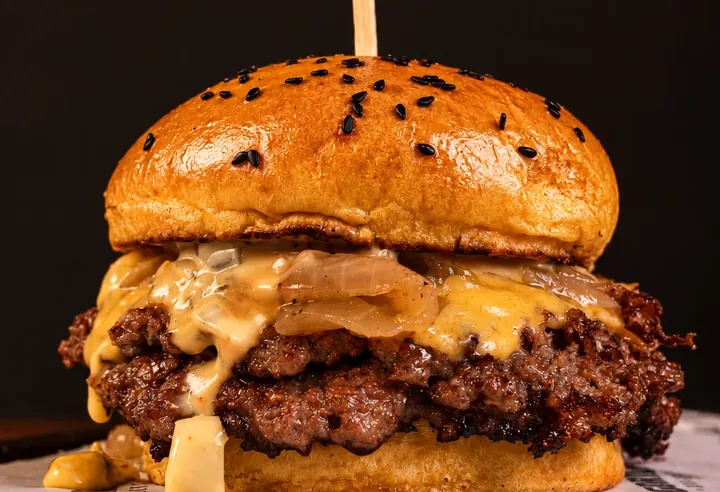
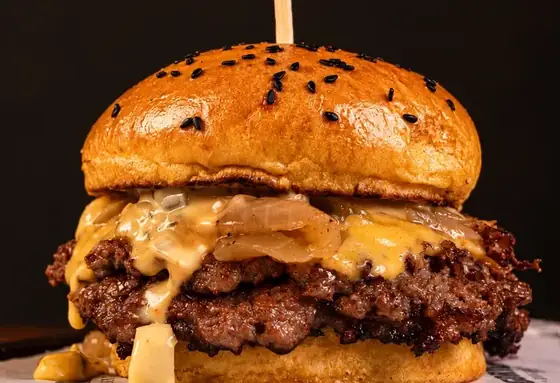
Sitio: vitrina con las fotos oficiales y Molotov
Claude-Session: https://claude.ai/code/session_0145Bw5c63rrWAMAmNbHaWSR

diff --git a/modulos/restaurante/restaurante-datos.js b/modulos/restaurante/restaurante-datos.js
@@ -1,2 +1,2 @@
 /* Datos del módulo de restaurante de Gorila Burgers (generado desde clientes/gorila-burgers/cliente.json). Solo la clave anon de Supabase; nunca service_role (§4.11). Ver modulos/restaurante/README.md. */
-window.RESTDATA = {"logo": "assets/logo.webp", "api": {"modo": "supabase", "url": "https://jukpaqtriemqvxormrgb.supabase.co", "anonKey": "eyJhbGciOiJIUzI1NiIsInR5cCI6IkpXVCJ9.eyJpc3MiOiJzdXBhYmFzZSIsInJlZiI6Imp1a3BhcXRyaWVtcXZ4b3JtcmdiIiwicm9sZSI6ImFub24iLCJpYXQiOjE3OTAzODY1ODQsImV4cCI6MjEwNTk2MjU4NH0.4PPIVK2HvvgwrGEtNVn7CozqDCldvlFWnK2rpgrOmHE", "schema": "gorila_burgers"}, "stock_bajo": 5, "productos": [{"clave": "texas", "nombre": "Gorila Texas + papas", "categoria": "vip", "precio_cent": 790, "lema": "La campeona que domina", "ingredientes": "2 carnes, 2 quesos cheddar, tocino, cebollas empanizadas, salsa BBQ y salsa Kong", "foto": null, "cuenta_burger": true, "controla_stock": true, "orden": 0}, {"clave": "superguesa", "nombre": "SuperGuesa + papas", "categoria": "vip", "precio_cent": 790, "lema": "Nivel bestia activado", "ingredientes": "Receta de la casa.", "foto": null, "cuenta_burger": true, "controla_stock": true, "orden": 1}, {"clave": "jam", "nombre": "Jam Smash", "categoria": "vip", "precio_cent": 499, "lema": "La que cambia el juego", "ingredientes": "2 carnes smash, 2 quesos cheddar, cebollas caramelizadas y salsa smash", "foto": null, "cuenta_burger": true, "controla_stock": true, "orden": 2}, {"clave": "hawayana", "nombre": "Hawayana + papas", "categoria": "especiales", "precio_cent": 590, "lema": "Dulce, atrevida y peligrosa", "ingredientes": "Receta de la casa.", "foto": null, "cuenta_burger": true, "controla_stock": true, "orden": 3}, {"clave": "tocino", "nombre": "Tocino BBQ + papas", "categoria": "especiales", "precio_cent": 590, "lema": "Puro fuego en cada mordida", "ingredientes": "Carne, queso cheddar, tocino, salsa BBQ, salsa Kong y vegetales", "foto": null, "cuenta_burger": true, "controla_stock": true, "orden": 4}, {"clave": "cheese", "nombre": "Cheese Burger + papas", "categoria": "peques", "precio_cent": 550, "lema": "El clásico que nunca falla", "ingredientes": "Carne, queso cheddar, salsa Kong y vegetales", "foto": null, "cuenta_burger": true, "controla_stock": true, "orden": 5}, {"clave": "mini", "nombre": "Mini Gorila + papas", "categoria": "peques", "precio_cent": 490, "lema": "Pequeña pero con carácter", "ingredientes": "Carne, salsa Kong y vegetales", "foto": null, "cuenta_burger": true, "controla_stock": true, "orden": 6}, {"clave": "cbfries", "nombre": "Cheese Bacon Fries", "categoria": "papas", "precio_cent": 450, "lema": null, "ingredientes": null, "foto": null, "cuenta_burger": false, "controla_stock": false, "orden": 7}, {"clave": "papas", "nombre": "Papas", "categoria": "papas", "precio_cent": 150, "lema": null, "ingredientes": null, "foto": null, "cuenta_burger": false, "controla_stock": false, "orden": 8}, {"clave": "lemonsun", "nombre": "Lemon Sun", "categoria": "bebidas", "precio_cent": 190, "lema": null, "ingredientes": null, "foto": null, "cuenta_burger": false, "controla_stock": false, "orden": 9}, {"clave": "redlemon", "nombre": "Red Lemon", "categoria": "bebidas", "precio_cent": 190, "lema": null, "ingredientes": null, "foto": null, "cuenta_burger": false, "controla_stock": false, "orden": 10}, {"clave": "cerveza", "nombre": "Cerveza de Gorila", "categoria": "bebidas", "precio_cent": 450, "lema": null, "ingredientes": null, "foto": null, "cuenta_burger": false, "controla_stock": false, "orden": 11}, {"clave": "x-carne", "nombre": "Carne", "categoria": "extras", "precio_cent": 200, "lema": null, "ingredientes": null, "foto": null, "cuenta_burger": false, "controla_stock": false, "orden": 12}, {"clave": "x-queso", "nombre": "Queso", "categoria": "extras", "precio_cent": 100, "lema": null, "ingredientes": null, "foto": null, "cuenta_burger": false, "controla_stock": false, "orden": 13}, {"clave": "x-tocino", "nombre": "Tocino", "categoria": "extras", "precio_cent": 150, "lema": null, "ingredientes": null, "foto": null, "cuenta_burger": false, "controla_stock": false, "orden": 14}, {"clave": "x-crunch", "nombre": "Tocino crunch", "categoria": "extras", "precio_cent": 150, "lema": null, "ingredientes": null, "foto": null, "cuenta_burger": false, "controla_stock": false, "orden": 15}, {"clave": "x-pina", "nombre": "Piña", "categoria": "extras", "precio_cent": 150, "lema": null, "ingredientes": null, "foto": null, "cuenta_burger": false, "controla_stock": false, "orden": 16}, {"clave": "x-kong", "nombre": "Salsa Kong", "categoria": "extras", "precio_cent": 100, "lema": null, "ingredientes": null, "foto": null, "cuenta_burger": false, "controla_stock": false, "orden": 17}, {"clave": "x-caram", "nombre": "Cebollas caramelizadas", "categoria": "extras", "precio_cent": 100, "lema": null, "ingredientes": null, "foto": null, "cuenta_burger": false, "controla_stock": false, "orden": 18}, {"clave": "x-empan", "nombre": "Cebollas empanizadas", "categoria": "extras", "precio_cent": 100, "lema": null, "ingredientes": null, "foto": null, "cuenta_burger": false, "controla_stock": false, "orden": 19}], "sectores": [{"nombre": "FICOA", "costo_cent": 0}, {"nombre": "Atocha", "costo_cent": 0}, {"nombre": "Miraflores", "costo_cent": 0}, {"nombre": "Centro", "costo_cent": 0}, {"nombre": "Huachi", "costo_cent": 0}, {"nombre": "Izamba", "costo_cent": 0}], "categorias": [{"id": "vip", "nombre": "VIP", "sub": "Hamburguesas", "ids": ["texas", "superguesa", "jam"]}, {"id": "especiales", "nombre": "Especiales", "sub": "Hamburguesas", "ids": ["hawayana", "tocino"]}, {"id": "peques", "nombre": "Peques", "sub": "Menú para", "ids": ["cheese", "mini"]}, {"id": "papas", "nombre": "Papas", "sub": "Para acompañar", "ids": ["cbfries", "papas"]}, {"id": "bebidas", "nombre": "Bebidas", "sub": "Para tomar", "ids": ["lemonsun", "redlemon", "cerveza"]}], "vitrina": [{"id": "texas", "nombre": "Gorila Texas", "titulo": "Texas", "precio_cent": 790, "intro": "La campeona que domina", "ingredientes": "2 carnes, 2 quesos cheddar, tocino, cebollas empanizadas, salsa BBQ y salsa Kong", "corte": "assets/corte-texas.webp", "alt": "Hamburguesa Gorila Texas de doble carne con queso cheddar y tocino, con la banderita de Gorila", "glow": "#a8620f"}, {"id": "jam", "nombre": "Jam Smash", "titulo": "Jam Smash", "precio_cent": 499, "intro": "La que cambia el juego", "ingredientes": "2 carnes smash, 2 quesos cheddar, cebollas caramelizadas y salsa smash", "corte": "assets/corte-jam.webp", "alt": "Hamburguesa Jam Smash con queso fundido y cebolla caramelizada en pan con ajonjolí negro", "glow": "#7a1530"}, {"id": null, "nombre": "Pig Floyd", "titulo": "Pig Floyd", "precio_cent": null, "etiqueta": "De temporada", "intro": "Hamburguesa de temporada", "ingredientes": null, "corte": "assets/corte-pigfloyd.webp", "alt": "Hamburguesa Pig Floyd de temporada con tocino ahumado y queso fundido en pan brioche", "glow": "#a3265d", "wa_texto": "Hola Gorila, quiero consultar por la Pig Floyd de temporada (precio y disponibilidad)."}], "burgers_txt": {"lleva": "Lo que lleva", "sin_ingredientes": "Ingredientes por confirmar con el local", "quedan": "Quedan {n} hoy", "agotada": "Agotada por hoy", "pedir_esta": "Pedir esta burger", "consultar": "Consultar por WhatsApp", "led_titulo": "Hamburguesas vendidas en {anio}"}, "dashboard_txt": {"entrada_titulo": "Dashboard del dueño", "entrada_texto": "Entra para ver cuántas burgers se venden hoy, qué queda en stock y cómo te piden, en tiempo real."}, "personal_txt": {"entrada_titulo": "Pantalla de ventas", "entrada_texto": "Entra para registrar cada burger que sale del local y confirmar los pedidos que llegan de la web."}, "juego_txt": {"jugar": "Manejar", "lleva": "Maneja el jeep del Gorila", "regla": "Cada peatón de caricatura que choques suma puntos, y los combos los multiplican. Tienes 40 segundos."}, "juego_premio": false, "sectores_ejemplo": false, "envio_por_confirmar": true};
+window.RESTDATA = {"logo": "assets/logo.webp", "api": {"modo": "supabase", "url": "https://jukpaqtriemqvxormrgb.supabase.co", "anonKey": "eyJhbGciOiJIUzI1NiIsInR5cCI6IkpXVCJ9.eyJpc3MiOiJzdXBhYmFzZSIsInJlZiI6Imp1a3BhcXRyaWVtcXZ4b3JtcmdiIiwicm9sZSI6ImFub24iLCJpYXQiOjE3OTAzODY1ODQsImV4cCI6MjEwNTk2MjU4NH0.4PPIVK2HvvgwrGEtNVn7CozqDCldvlFWnK2rpgrOmHE", "schema": "gorila_burgers"}, "stock_bajo": 5, "productos": [{"clave": "texas", "nombre": "Gorila Texas + papas", "categoria": "vip", "precio_cent": 790, "lema": "La campeona que domina", "ingredientes": "2 carnes, 2 quesos cheddar, tocino, cebollas empanizadas, salsa BBQ y salsa Kong", "foto": null, "cuenta_burger": true, "controla_stock": true, "orden": 0}, {"clave": "superguesa", "nombre": "SuperGuesa + papas", "categoria": "vip", "precio_cent": 790, "lema": "Nivel bestia activado", "ingredientes": "Receta de la casa.", "foto": null, "cuenta_burger": true, "controla_stock": true, "orden": 1}, {"clave": "jam", "nombre": "Jam Smash", "categoria": "vip", "precio_cent": 499, "lema": "La que cambia el juego", "ingredientes": "2 carnes smash, 2 quesos cheddar, cebollas caramelizadas y salsa smash", "foto": null, "cuenta_burger": true, "controla_stock": true, "orden": 2}, {"clave": "hawayana", "nombre": "Hawayana + papas", "categoria": "especiales", "precio_cent": 590, "lema": "Dulce, atrevida y peligrosa", "ingredientes": "Receta de la casa.", "foto": null, "cuenta_burger": true, "controla_stock": true, "orden": 3}, {"clave": "tocino", "nombre": "Tocino BBQ + papas", "categoria": "especiales", "precio_cent": 590, "lema": "Puro fuego en cada mordida", "ingredientes": "Carne, queso cheddar, tocino, salsa BBQ, salsa Kong y vegetales", "foto": null, "cuenta_burger": true, "controla_stock": true, "orden": 4}, {"clave": "cheese", "nombre": "Cheese Burger + papas", "categoria": "peques", "precio_cent": 550, "lema": "El clásico que nunca falla", "ingredientes": "Carne, queso cheddar, salsa Kong y vegetales", "foto": null, "cuenta_burger": true, "controla_stock": true, "orden": 5}, {"clave": "mini", "nombre": "Mini Gorila + papas", "categoria": "peques", "precio_cent": 490, "lema": "Pequeña pero con carácter", "ingredientes": "Carne, salsa Kong y vegetales", "foto": null, "cuenta_burger": true, "controla_stock": true, "orden": 6}, {"clave": "cbfries", "nombre": "Cheese Bacon Fries", "categoria": "papas", "precio_cent": 450, "lema": null, "ingredientes": null, "foto": null, "cuenta_burger": false, "controla_stock": false, "orden": 7}, {"clave": "papas", "nombre": "Papas", "categoria": "papas", "precio_cent": 150, "lema": null, "ingredientes": null, "foto": null, "cuenta_burger": false, "controla_stock": false, "orden": 8}, {"clave": "lemonsun", "nombre": "Lemon Sun", "categoria": "bebidas", "precio_cent": 190, "lema": null, "ingredientes": null, "foto": null, "cuenta_burger": false, "controla_stock": false, "orden": 9}, {"clave": "redlemon", "nombre": "Red Lemon", "categoria": "bebidas", "precio_cent": 190, "lema": null, "ingredientes": null, "foto": null, "cuenta_burger": false, "controla_stock": false, "orden": 10}, {"clave": "cerveza", "nombre": "Cerveza de Gorila", "categoria": "bebidas", "precio_cent": 450, "lema": null, "ingredientes": null, "foto": null, "cuenta_burger": false, "controla_stock": false, "orden": 11}, {"clave": "x-carne", "nombre": "Carne", "categoria": "extras", "precio_cent": 200, "lema": null, "ingredientes": null, "foto": null, "cuenta_burger": false, "controla_stock": false, "orden": 12}, {"clave": "x-queso", "nombre": "Queso", "categoria": "extras", "precio_cent": 100, "lema": null, "ingredientes": null, "foto": null, "cuenta_burger": false, "controla_stock": false, "orden": 13}, {"clave": "x-tocino", "nombre": "Tocino", "categoria": "extras", "precio_cent": 150, "lema": null, "ingredientes": null, "foto": null, "cuenta_burger": false, "controla_stock": false, "orden": 14}, {"clave": "x-crunch", "nombre": "Tocino crunch", "categoria": "extras", "precio_cent": 150, "lema": null, "ingredientes": null, "foto": null, "cuenta_burger": false, "controla_stock": false, "orden": 15}, {"clave": "x-pina", "nombre": "Piña", "categoria": "extras", "precio_cent": 150, "lema": null, "ingredientes": null, "foto": null, "cuenta_burger": false, "controla_stock": false, "orden": 16}, {"clave": "x-kong", "nombre": "Salsa Kong", "categoria": "extras", "precio_cent": 100, "lema": null, "ingredientes": null, "foto": null, "cuenta_burger": false, "controla_stock": false, "orden": 17}, {"clave": "x-caram", "nombre": "Cebollas caramelizadas", "categoria": "extras", "precio_cent": 100, "lema": null, "ingredientes": null, "foto": null, "cuenta_burger": false, "controla_stock": false, "orden": 18}, {"clave": "x-empan", "nombre": "Cebollas empanizadas", "categoria": "extras", "precio_cent": 100, "lema": null, "ingredientes": null, "foto": null, "cuenta_burger": false, "controla_stock": false, "orden": 19}], "sectores": [{"nombre": "FICOA", "costo_cent": 0}, {"nombre": "Atocha", "costo_cent": 0}, {"nombre": "Miraflores", "costo_cent": 0}, {"nombre": "Centro", "costo_cent": 0}, {"nombre": "Huachi", "costo_cent": 0}, {"nombre": "Izamba", "costo_cent": 0}], "categorias": [{"id": "vip", "nombre": "VIP", "sub": "Hamburguesas", "ids": ["texas", "superguesa", "jam"]}, {"id": "especiales", "nombre": "Especiales", "sub": "Hamburguesas", "ids": ["hawayana", "tocino"]}, {"id": "peques", "nombre": "Peques", "sub": "Menú para", "ids": ["cheese", "mini"]}, {"id": "papas", "nombre": "Papas", "sub": "Para acompañar", "ids": ["cbfries", "papas"]}, {"id": "bebidas", "nombre": "Bebidas", "sub": "Para tomar", "ids": ["lemonsun", "redlemon", "cerveza"]}], "vitrina": [{"id": "texas", "nombre": "Gorila Texas", "titulo": "Texas", "precio_cent": 790, "intro": "La campeona que domina", "ingredientes": "2 carnes, 2 quesos cheddar, tocino, cebollas empanizadas, salsa BBQ y salsa Kong", "corte": "assets/corte-texas.webp", "alt": "Gorila Texas con la banderita de Gorila, doble carne, cebolla caramelizada y tocino", "glow": "#a8620f"}, {"id": "superguesa", "nombre": "SuperGuesa", "titulo": "SuperGuesa", "precio_cent": 790, "intro": "Nivel bestia activado", "ingredientes": "Receta de la casa.", "corte": "assets/corte-superguesa.webp", "alt": "SuperGuesa: doble carne con doble cheddar y tocino", "glow": "#8a4a12"}, {"id": "jam", "nombre": "Jam Smash", "titulo": "Jam Smash", "precio_cent": 499, "intro": "La que cambia el juego", "ingredientes": "2 carnes smash, 2 quesos cheddar, cebollas caramelizadas y salsa smash", "corte": "assets/corte-jam.webp", "alt": "Jam Smash: doble carne smash con queso fundido y cebolla caramelizada, con la banderita de Gorila", "glow": "#7a1530"}, {"id": "hawayana", "nombre": "Hawayana", "titulo": "Hawayana", "precio_cent": 590, "intro": "Dulce, atrevida y peligrosa", "ingredientes": "Receta de la casa.", "corte": "assets/corte-hawayana.webp", "alt": "Hawayana: carne con cheddar y piña a la plancha en pan brioche", "glow": "#b8780a"}, {"id": "tocino", "nombre": "Tocino BBQ", "titulo": "Tocino BBQ", "precio_cent": 590, "intro": "Puro fuego en cada mordida", "ingredientes": "Carne, queso cheddar, tocino, salsa BBQ, salsa Kong y vegetales", "corte": "assets/corte-tocino.webp", "alt": "Tocino BBQ: carne con cheddar, tocino y salsa BBQ", "glow": "#a3261b"}, {"id": null, "nombre": "Pig Floyd", "titulo": "Pig Floyd", "precio_cent": null, "etiqueta": "Temporada", "intro": "Hamburguesa de temporada", "ingredientes": null, "corte": "assets/corte-pigfloyd.webp", "alt": "Hamburguesa Pig Floyd de temporada con carne desmechada, tocino y queso fundido, con brocheta de panceta", "glow": "#a3265d", "wa_texto": "Hola Gorila, quiero consultar por la Pig Floyd de temporada (precio y disponibilidad)."}, {"id": null, "nombre": "Molotov", "titulo": "Molotov", "precio_cent": null, "etiqueta": "Especial", "intro": "Carne desmechada, queso fundido y brocheta de tocino con ají", "ingredientes": null, "corte": "assets/corte-molotov.webp", "alt": "Hamburguesa Molotov con carne desmechada, queso fundido y brocheta de tocino con ají verde", "glow": "#2c5a2a", "wa_texto": "Hola Gorila, quiero pedir la Molotov (precio y disponibilidad)."}], "burgers_txt": {"lleva": "Lo que lleva", "sin_ingredientes": "Ingredientes por confirmar con el local", "quedan": "Quedan {n} hoy", "agotada": "Agotada por hoy", "pedir_esta": "Pedir esta burger", "consultar": "Consultar por WhatsApp", "led_titulo": "Hamburguesas vendidas en {anio}"}, "dashboard_txt": {"entrada_titulo": "Dashboard del dueño", "entrada_texto": "Entra para ver cuántas burgers se venden hoy, qué queda en stock y cómo te piden, en tiempo real."}, "personal_txt": {"entrada_titulo": "Pantalla de ventas", "entrada_texto": "Entra para registrar cada burger que sale del local y confirmar los pedidos que llegan de la web."}, "juego_txt": {"jugar": "Manejar", "lleva": "Maneja el jeep del Gorila", "regla": "Cada peatón de caricatura que choques suma puntos, y los combos los multiplican. Tienes 40 segundos."}, "juego_premio": false, "sectores_ejemplo": false, "envio_por_confirmar": true};

diff --git a/index.html b/index.html
@@ -169,7 +169,7 @@
   <div id="rb-centinela" aria-hidden="true" style="position:absolute;top:140px;left:0;width:1px;height:1px;pointer-events:none"></div>
   <div id="rb-glows" aria-hidden="true"></div>
   <div class="rb-filas" id="rb-filas" aria-hidden="true"></div>
-  <div class="rb-escena" id="rb-escena"><div class="rb-slide on" data-n="0" role="group" aria-roledescription="diapositiva" aria-label="1"><img src="assets/corte-texas.webp" alt="Hamburguesa Gorila Texas de doble carne con queso cheddar y tocino, con la banderita de Gorila" width="428" height="425" fetchpriority="high" decoding="async"></div></div>
+  <div class="rb-escena" id="rb-escena"><div class="rb-slide on" data-n="0" role="group" aria-roledescription="diapositiva" aria-label="1"><img src="assets/corte-texas.webp" alt="Gorila Texas con la banderita de Gorila, doble carne, cebolla caramelizada y tocino" width="553" height="620" fetchpriority="high" decoding="async"></div></div>
   <div class="rb-pie">
     <div class="rb-texto" aria-live="polite">
       <p class="rb-intro" id="rb-intro"></p>
@@ -228,12 +228,12 @@
 <section class="sec oscuro" id="galeria"><div class="wrap">
   <h2 class="doble" data-reveal><span>Directo desde</span>la plancha</h2>
   <div class="galeria" data-stagger>
-    <figure class="fx-zoom"><img src="assets/foto-huevo-neon.webp" alt="Beast: doble carne con huevo frito y tocino frente al neón This is Gorila" width="720" height="1080" loading="lazy" style="object-position:50% 72%"></figure>
-    <figure class="fx-zoom"><img src="assets/foto-texas.webp" alt="Gorila Texas con la banderita de Gorila, doble carne, cebolla y tocino" width="720" height="1080" loading="lazy" style="object-position:50% 35%"></figure>
-    <figure class="fx-zoom"><img src="assets/foto-jam.webp" alt="Jam Smash con la banderita de Gorila, queso fundido y cebolla caramelizada" width="720" height="1080" loading="lazy" style="object-position:50% 25%"></figure>
-    <figure class="fx-zoom"><img src="assets/foto-superguesa.webp" alt="SuperGuesa: doble carne con doble cheddar y tocino" width="720" height="1080" loading="lazy"></figure>
-    <figure class="fx-zoom"><img src="assets/foto-hawayana.webp" alt="Hawayana con piña a la plancha y cheddar" width="720" height="1080" loading="lazy"></figure>
-    <figure class="fx-zoom"><img src="assets/foto-tocino-bbq.webp" alt="Tocino BBQ con salsa BBQ y papas" width="720" height="1080" loading="lazy"></figure>
+    <figure class="fx-zoom"><img src="assets/foto-huevo-neon.webp" alt="Beast: doble carne con huevo frito y tocino frente al neón This is Gorila" width="560" height="840" loading="lazy" style="object-position:50% 72%"></figure>
+    <figure class="fx-zoom"><img src="assets/foto-texas.webp" alt="Gorila Texas con la banderita de Gorila, doble carne, cebolla y tocino" width="560" height="840" loading="lazy" style="object-position:50% 35%"></figure>
+    <figure class="fx-zoom"><img src="assets/foto-jam.webp" alt="Jam Smash con la banderita de Gorila, queso fundido y cebolla caramelizada" width="560" height="840" loading="lazy" style="object-position:50% 25%"></figure>
+    <figure class="fx-zoom"><img src="assets/foto-superguesa.webp" alt="SuperGuesa: doble carne con doble cheddar y tocino" width="560" height="840" loading="lazy"></figure>
+    <figure class="fx-zoom"><img src="assets/foto-hawayana.webp" alt="Hawayana con piña a la plancha y cheddar" width="560" height="840" loading="lazy"></figure>
+    <figure class="fx-zoom"><img src="assets/foto-tocino-bbq.webp" alt="Tocino BBQ con salsa BBQ y papas" width="560" height="840" loading="lazy"></figure>
     
   </div>
 </div></section>

diff --git a/menu.js b/menu.js
@@ -16,8 +16,8 @@ window.MENU = {
           "foto": {
             "src": "assets/carta-texas.webp",
             "alt": "Gorila Texas: doble carne con cheddar, tocino y la banderita de Gorila",
-            "w": 720,
-            "h": 492
+            "w": 560,
+            "h": 383
           }
         },
         {
@@ -29,8 +29,8 @@ window.MENU = {
           "foto": {
             "src": "assets/carta-superguesa.webp",
             "alt": "SuperGuesa: doble carne con doble cheddar y tocino",
-            "w": 720,
-            "h": 534
+            "w": 560,
+            "h": 415
           }
         },
         {
@@ -42,8 +42,8 @@ window.MENU = {
           "foto": {
             "src": "assets/carta-jam.webp",
             "alt": "Jam Smash: doble carne smash con queso fundido y cebolla caramelizada",
-            "w": 720,
-            "h": 492
+            "w": 560,
+            "h": 383
           }
         }
       ]
@@ -63,8 +63,8 @@ window.MENU = {
           "foto": {
             "src": "assets/carta-hawayana.webp",
             "alt": "Hawayana: carne con cheddar y piña a la plancha en pan brioche",
-            "w": 720,
-            "h": 492
+            "w": 560,
+            "h": 383
           }
         },
         {
@@ -76,8 +76,8 @@ window.MENU = {
           "foto": {
             "src": "assets/carta-tocino-bbq.webp",
             "alt": "Tocino BBQ: carne, cheddar, tocino y salsa BBQ con papas",
-            "w": 720,
-            "h": 492
+            "w": 560,
+            "h": 383
           }
         }
       ]
@@ -97,8 +97,8 @@ window.MENU = {
           "foto": {
             "src": "assets/carta-cheese.webp",
             "alt": "Cheese Burger: carne con queso cheddar derretido y vegetales",
-            "w": 720,
-            "h": 492
+            "w": 560,
+            "h": 383
           }
         },
         {
@@ -110,8 +110,8 @@ window.MENU = {
           "foto": {
             "src": "assets/carta-mini.webp",
             "alt": "Mini Gorila: carne con queso y salsa en pan con ajonjolí negro",
-            "w": 720,
-            "h": 492
+            "w": 560,
+            "h": 383
           }
         }
       ]

diff --git a/modulos/restaurante/rest-burgers.js b/modulos/restaurante/rest-burgers.js
@@ -8,7 +8,11 @@
   /* la primera burger ya viene en el HTML (es lo que más tarda en pintarse): se conserva y solo se agregan las demás */
   const estatica = slides.querySelector('.rb-slide');
   if (estatica) estatica.setAttribute('aria-label', `1 de ${V.length}`);
-  slides.insertAdjacentHTML('beforeend', V.map((b, n) => estatica && n === 0 ? '' : `<div class="rb-slide" data-n="${n}" role="group" aria-roledescription="diapositiva" aria-label="${n + 1} de ${V.length}"><img src="${esc(b.corte)}" alt="${esc(b.alt)}" ${n ? 'loading="lazy"' : ''}></div>`).join(''));
+  slides.insertAdjacentHTML('beforeend', V.map((b, n) => estatica && n === 0 ? '' : `<div class="rb-slide" data-n="${n}" role="group" aria-roledescription="diapositiva" aria-label="${n + 1} de ${V.length}">${n ? '' : `<img src="${esc(b.corte)}" alt="${esc(b.alt)}" decoding="async">`}</div>`).join(''));
+  /* Las demás burgers se bajan después de la primera pintura (o al primer toque), para que la primera carga siga liviana */
+  const cargarSlides = () => { $$('.rb-slide', slides).forEach((s, k) => { if (k && !s.firstChild) { const i = new Image(); i.alt = V[k].alt; i.decoding = 'async'; i.src = V[k].corte; s.appendChild(i); } }); };
+  ['pointerdown', 'keydown', 'touchstart'].forEach(e => addEventListener(e, cargarSlides, { once: true, passive: true }));
+  setTimeout(cargarSlides, 3500);
   glows.innerHTML = V.map(b => `<div class="rb-glow" style="--g:${esc(b.glow)}"></div>`).join('');
 
   const quedan = id => carta && (carta.productos.find(p => p.clave === id) || {}).quedan;
